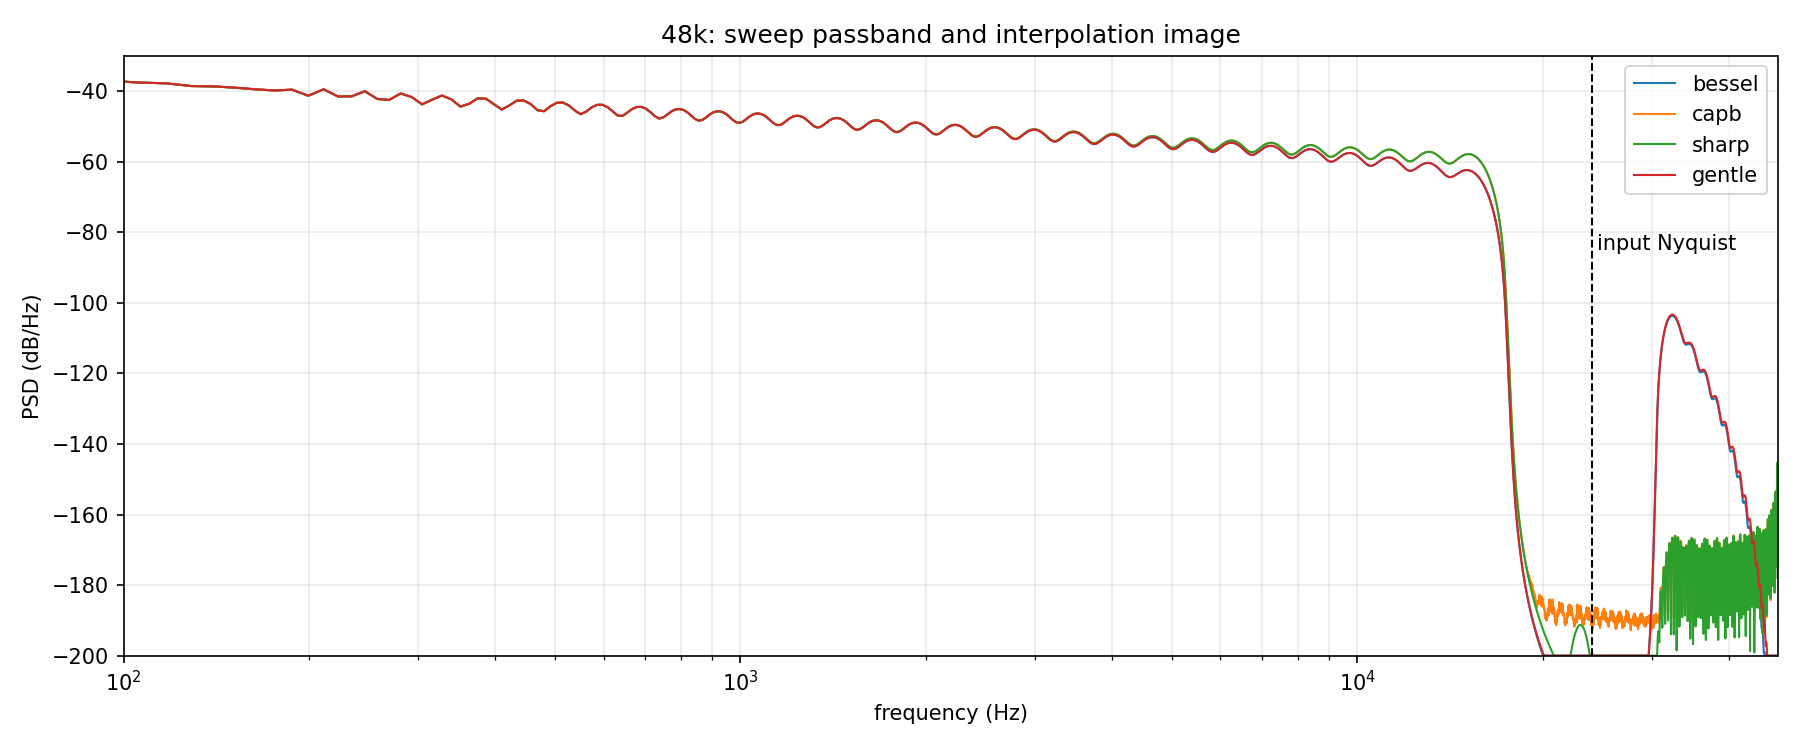
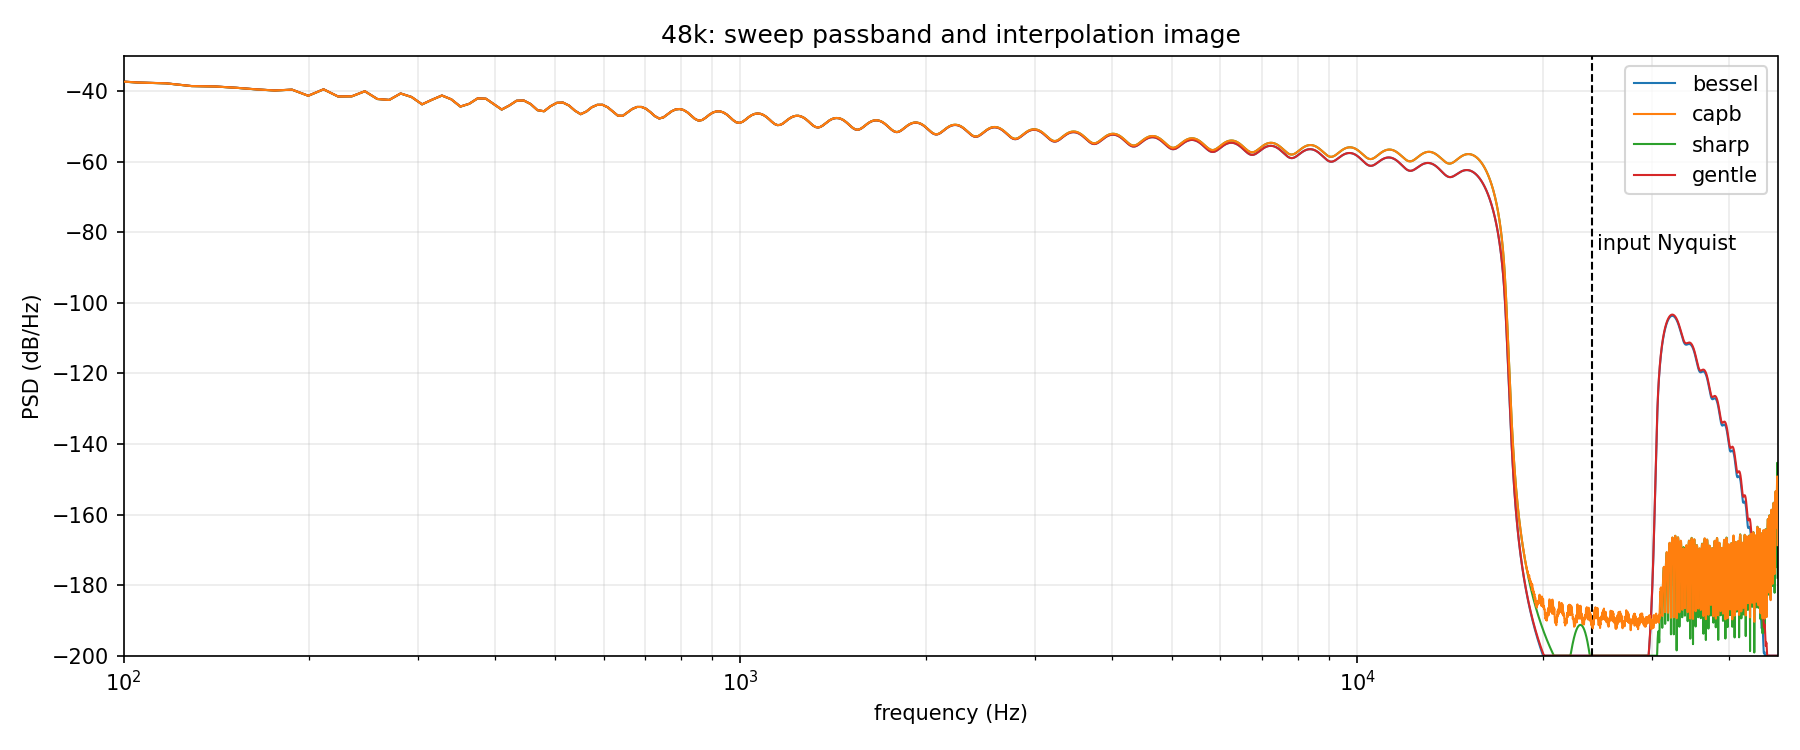
fix: keep CAPB traces above references
Assign CAPB comparison lines a higher drawing priority and render them after fixed references so overlapping traces remain identifiable. Regenerate the accepted run11 report images for both rate families.

diff --git a/scripts/report_capb_distortion.py b/scripts/report_capb_distortion.py
@@ -34,6 +34,13 @@ _BESSEL_ORDER = 6
 _ANALYSIS_DURATION_SEC = 1
 _SIGNAL_DURATION_SEC = 3
 _DB_FLOOR = -180.0
+_REFERENCE_ZORDER = 2.0
+_CAPB_ZORDER = 10.0
+
+
+def _comparison_zorder(name: str) -> float:
+    """Return a drawing priority that keeps CAPB above references."""
+    return _CAPB_ZORDER if name == "capb" else _REFERENCE_ZORDER
 
 
 @dataclass(frozen=True)
@@ -245,7 +252,14 @@ def _render_square_plot(
         relative_ms, waveform = _edge_window(
             outputs[name], edges[name], case.target_rate, -1.0, 3.0
         )
-        axis.plot(relative_ms, waveform, color=color, linewidth=1.1, label=name)
+        axis.plot(
+            relative_ms,
+            waveform,
+            color=color,
+            linewidth=1.1,
+            label=name,
+            zorder=_comparison_zorder(name),
+        )
     axis.axvspan(0.1, 0.8, color="#4caf50", alpha=0.10, label="gate plateau 0.1–0.8 ms")
     axis.set(
         xlabel="time from edge (ms)",
@@ -366,15 +380,24 @@ def _plot_sweep_spectrum(
 ) -> None:
     """Plot passband and image-band sweep power for four paths."""
     figure, axis = plt.subplots(figsize=(12, 5))
-    for name in ("bessel", "capb", "sharp", "gentle"):
+    colors = {
+        "bessel": "tab:blue",
+        "capb": "tab:orange",
+        "sharp": "tab:green",
+        "gentle": "tab:red",
+    }
+    lines: dict[str, Any] = {}
+    for name in ("bessel", "sharp", "gentle", "capb"):
         frequencies, psd = sp_signal.welch(
             outputs[name], fs=case.target_rate, nperseg=8_192
         )
-        axis.semilogx(
+        (lines[name],) = axis.semilogx(
             frequencies[1:],
             10.0 * np.log10(np.maximum(psd[1:], 1.0e-20)),
             label=name,
+            color=colors[name],
             linewidth=1.0,
+            zorder=_comparison_zorder(name),
         )
     axis.axvline(case.source_rate / 2.0, color="black", linestyle="--", linewidth=1.0)
     axis.text(case.source_rate / 2.0 * 1.02, -85.0, "input Nyquist")
@@ -386,7 +409,8 @@ def _plot_sweep_spectrum(
         title=f"{case.label}: sweep passband and interpolation image",
     )
     axis.grid(alpha=0.25, which="both")
-    axis.legend()
+    legend_order = ("bessel", "capb", "sharp", "gentle")
+    axis.legend([lines[name] for name in legend_order], legend_order)
     figure.tight_layout()
     figure.savefig(output_dir / "sweep_spectrum.png", dpi=150)
     plt.close(figure)
@@ -513,7 +537,14 @@ def _plot_thd(case: RateCase, result: dict[str, Any], output_path: Path) -> None
     figure, axis = plt.subplots(figsize=(11, 5))
     for name, marker in (("ideal", "o"), ("bessel", "s"), ("capb", "^")):
         levels = np.maximum(lines["thd"][name], _DB_FLOOR)
-        axis.plot(orders, levels, marker=marker, markersize=4, label=name)
+        axis.plot(
+            orders,
+            levels,
+            marker=marker,
+            markersize=4,
+            label=name,
+            zorder=_comparison_zorder(name),
+        )
     capb_thd = result["metrics"]["capb"]["thd_1khz_20khz_db"]
     axis.set(
         xticks=orders,
@@ -541,12 +572,14 @@ def _plot_imd(case: RateCase, result: dict[str, Any], output_path: Path) -> None
             np.maximum(lines["smpte"][name], _DB_FLOOR),
             marker=marker,
             label=name,
+            zorder=_comparison_zorder(name),
         )
         axes[1].plot(
             ccif_freqs,
             np.maximum(lines["ccif"][name], _DB_FLOOR),
             marker=marker,
             label=name,
+            zorder=_comparison_zorder(name),
         )
     axes[0].set(
         title="SMPTE: lines around 7 kHz",
@@ -589,6 +622,7 @@ def _plot_sideband_degradation(
             np.maximum(lines["smpte"][name], _DB_FLOOR),
             marker=marker,
             label=name,
+            zorder=_comparison_zorder(name),
         )
     axes[0].set(
         xlabel="offset from 7 kHz (Hz)",
@@ -628,7 +662,11 @@ def _plot_am_sidebands(
     figure, axis = plt.subplots(figsize=(11, 5))
     for name, marker in (("ideal", "o"), ("bessel", "s"), ("capb", "^")):
         axis.plot(
-            orders, np.maximum(lines["am"][name], _DB_FLOOR), marker=marker, label=name
+            orders,
+            np.maximum(lines["am"][name], _DB_FLOOR),
+            marker=marker,
+            label=name,
+            zorder=_comparison_zorder(name),
         )
     axis.axvspan(-1.1, 1.1, color="#4caf50", alpha=0.08, label="input lines")
     axis.set(

diff --git a/scripts/report_capb_impulse.py b/scripts/report_capb_impulse.py
@@ -24,6 +24,13 @@ from totton_audio_de_mirroring.models.proto_bank import (
 _BESSEL_CUTOFF_HZ = 20_000.0
 _BESSEL_ORDER = 6
 _AMPLITUDE = 0.5
+_REFERENCE_ZORDER = 2.0
+_CAPB_ZORDER = 10.0
+
+
+def _comparison_zorder(name: str) -> float:
+    """Return a drawing priority that keeps CAPB above references."""
+    return _CAPB_ZORDER if name == "capb" else _REFERENCE_ZORDER
 
 
 @dataclass(frozen=True)
@@ -142,8 +149,14 @@ def _plot(
         "sharp": "tab:green",
         "gentle": "tab:red",
     }
-    for name, output in outputs.items():
-        axes[0].plot(time_ms, output[sample_slice], label=name, color=colors[name])
+    for name in ("bessel", "sharp", "gentle", "capb"):
+        axes[0].plot(
+            time_ms,
+            outputs[name][sample_slice],
+            label=name,
+            color=colors[name],
+            zorder=_comparison_zorder(name),
+        )
     axes[0].axvspan(-4.0, -0.5, color="gray", alpha=0.12, label="G2b window")
     axes[0].set(
         title=f"{case.label}: isolated input-rate impulse response",
@@ -221,7 +234,7 @@ def main() -> None:
                 "metrics": _metrics(outputs, center, case.target_rate),
             }
         (args.output_dir / "impulse_metrics.json").write_text(
-            json.dumps(summary, indent=2), encoding="utf-8"
+            json.dumps(summary, indent=2) + "\n", encoding="utf-8"
         )
         (args.output_dir / "impulse_report.md").write_text(
             _render_markdown(summary), encoding="utf-8"

diff --git a/tests/test_capb_plotting.py b/tests/test_capb_plotting.py
@@ -1,0 +1,20 @@
+"""Tests for CAPB comparison-plot visibility."""
+
+from scripts.report_capb_distortion import (
+    _comparison_zorder as distortion_zorder,
+)
+from scripts.report_capb_impulse import _comparison_zorder as impulse_zorder
+
+
+def test_capb_distortion_series_is_above_all_references() -> None:
+    """CAPB distortion lines must remain visible where traces overlap."""
+    references = ("ideal", "bessel", "sharp", "gentle")
+    assert all(
+        distortion_zorder("capb") > distortion_zorder(name) for name in references
+    )
+
+
+def test_capb_impulse_series_is_above_all_references() -> None:
+    """CAPB impulse lines must remain visible where traces overlap."""
+    references = ("bessel", "sharp", "gentle")
+    assert all(impulse_zorder("capb") > impulse_zorder(name) for name in references)
